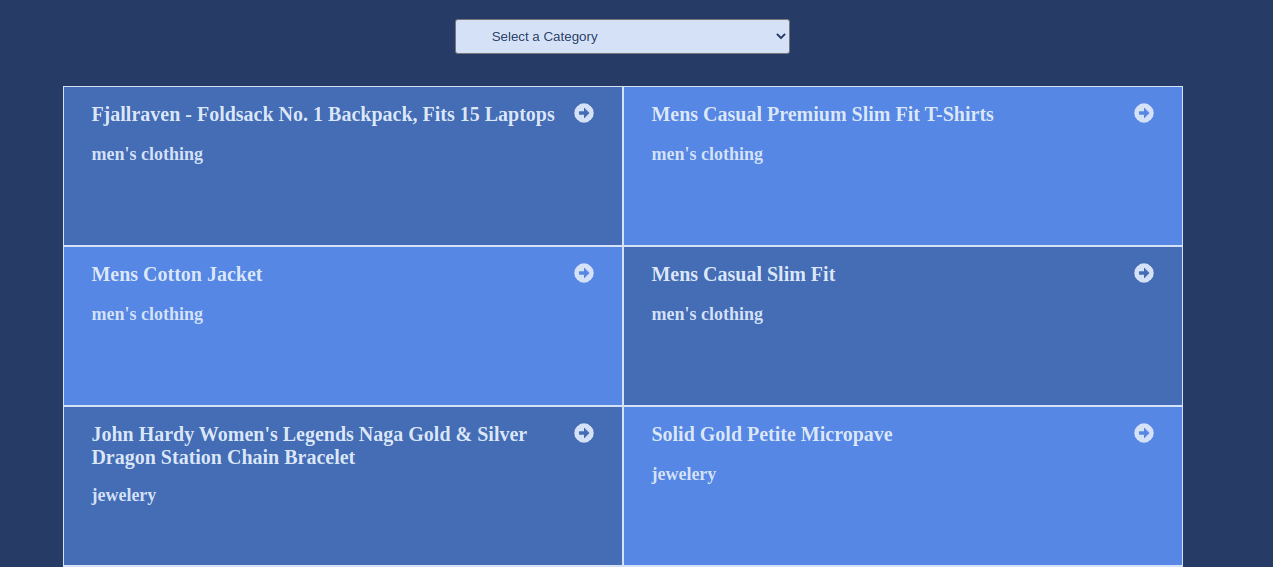
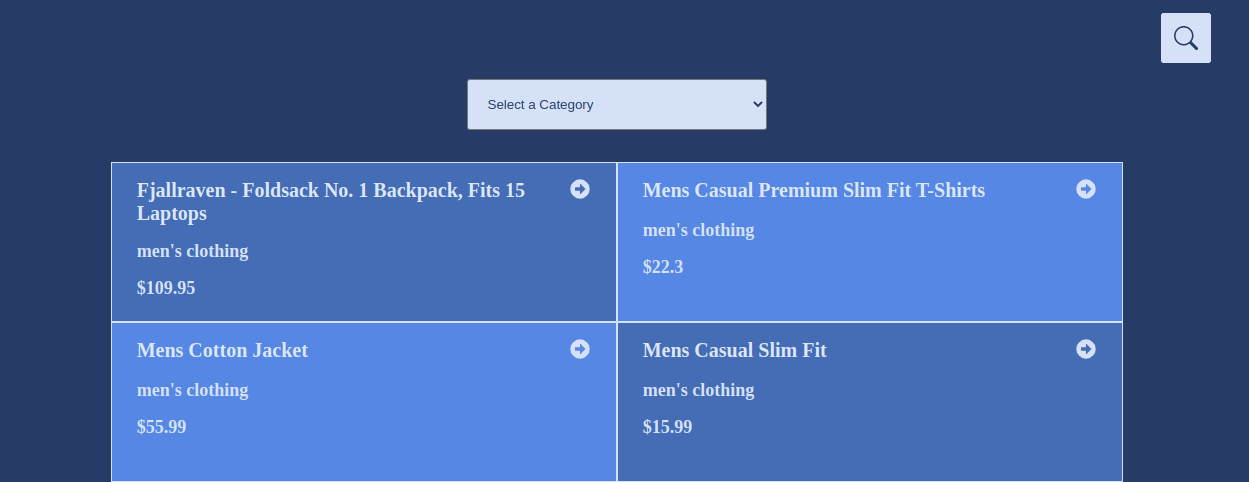
update: readme file

diff --git a/README.md b/README.md
@@ -1,5 +1,5 @@
 # Metrics webapp
-- This React capstone project is about building a web application to check a list of metrics (numeric values) that was created using a [fakeStore API](https://fakestoreapi.com/) and making use of React and Redux.
+- This React project is about building a web application to check a list of metrics (numeric values) retrieved from a [fakeStore API](https://fakestoreapi.com/), app allows users to filter through the categories and price ranges, as well as use a search bar to find a particular product.
 
 ![homePage](https://raw.githubusercontent.com/Meri-MG/metrics-webapp---react/chore/display_pages/homePage.png)
 ![detailsPage](https://raw.githubusercontent.com/Meri-MG/metrics-webapp---react/chore/display_pages/detailsPage.png)
@@ -14,8 +14,7 @@
 
 ## Live Demo
 
-> Project live demo on [Netlify](https://angry-yalow-17c6ab.netlify.app/)
-> Project Video [presentation](https://www.loom.com/share/8ed9b1ae59274497a848e6ea962088c1)
+> Project live demo on [Netlify](https://fakestore-metrics.netlify.app/)
 
 
 # Getting Started
@@ -32,36 +31,36 @@
 
 - Choose a folder in your local machine where you want this repository to be copied
 
-- Clone this [repository](https://github.com/Meri-MG/metrics-webapp---react) to your locaL machine with `git clone` command.
-It should look similar to this git clone https://github.com/smithj/azure-docs.git Enter your github credentials if prompted.
+- Clone this [repository](https://github.com/Meri-MG/Fakestore---react) to your local machine 
+- ```
+  git clone git@github.com:Meri-MG/Fakestore---react.git
+  ```
 
-- Navigate to react-group-project directory.
+- Navigate to `cd bookstore---react`  directory.
 
-- On the command line, at the project's root, run 'npm install' to install app dependencies.
-
-- Next, run 'npm start' which will run the app in the development mode.
+- To install all the app dependencies on the command line run
+- ```
+  npm install
+  ``` 
+- To run app in the development mode run 
+- ```
+  npm start
+  ```
 
 
 ## Author
 
-:woman: Meri Gogichashvili
-- [GitHub](https://github.com/Meri-MG) 
+:woman: **Meri Gogichashvili**
+
+- [GitHub](https://github.com/Meri-MG)
 - [LinkedIn](https://www.linkedin.com/in/meri-gogichashvili/)
 
 ## 🤝 Contributing
+- Contributions, issues, and feature requests are welcome!
+- Feel free to check the [issues page](https://github.com/Meri-MG/Fakestore---react/issues).
 
-Contributions, issues, and feature requests are welcome!
-
-Feel free to check the [issues page](https://github.com/Meri-MG/metrics-webapp---react/issues).
-
-## Show your support
-
-Give a ⭐ if you like this project!
+# Show your support
+- Give a ⭐ if you like this project!
 
 ## Acknowledgments
-Thanks to my teammates, learning and coding partners.
-Thanks to the owner of original [design idea](https://www.behance.net/gallery/31579789/Ballhead-App-(Free-PSDs)) - [Nelson Sakwa on Behance](https://www.behance.net/sakwadesignstudio).
-
-## 📝 License
-
-This project is [MIT](./MIT.md) licensed.
+- Thanks to the owner of original [design idea](https://www.behance.net/gallery/31579789/Ballhead-App-(Free-PSDs)) - [Nelson Sakwa on Behance](https://www.behance.net/sakwadesignstudio).
